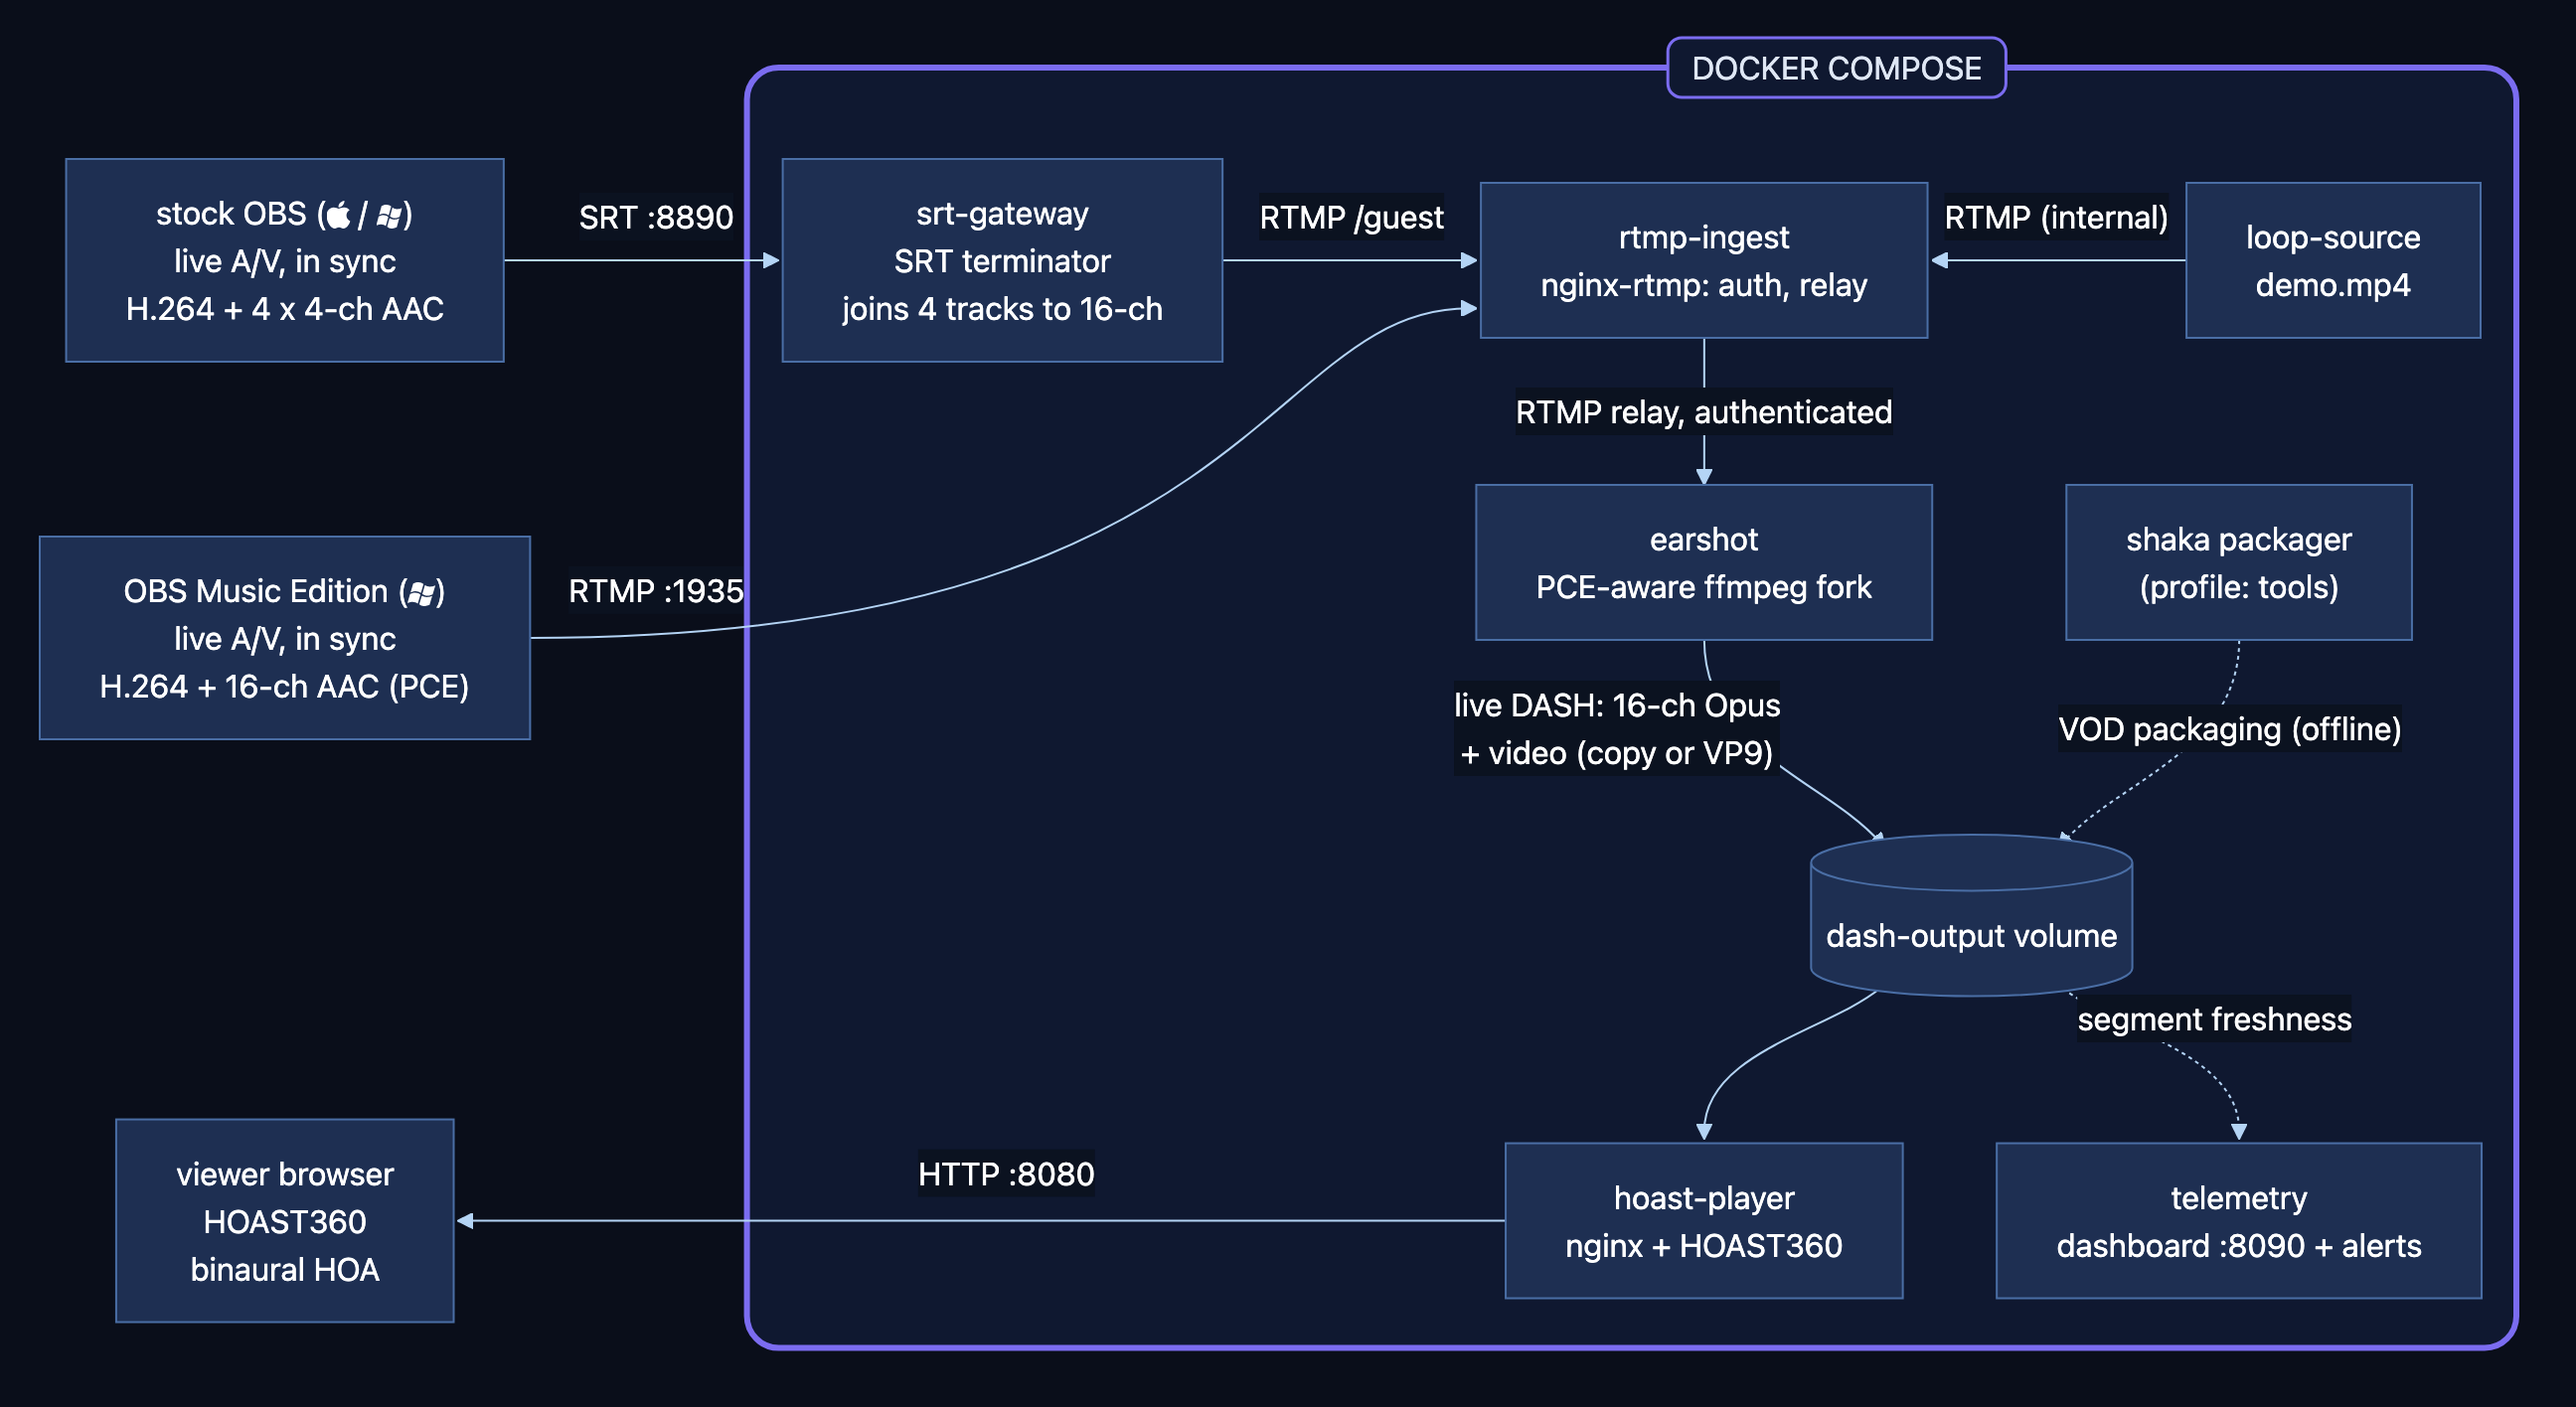
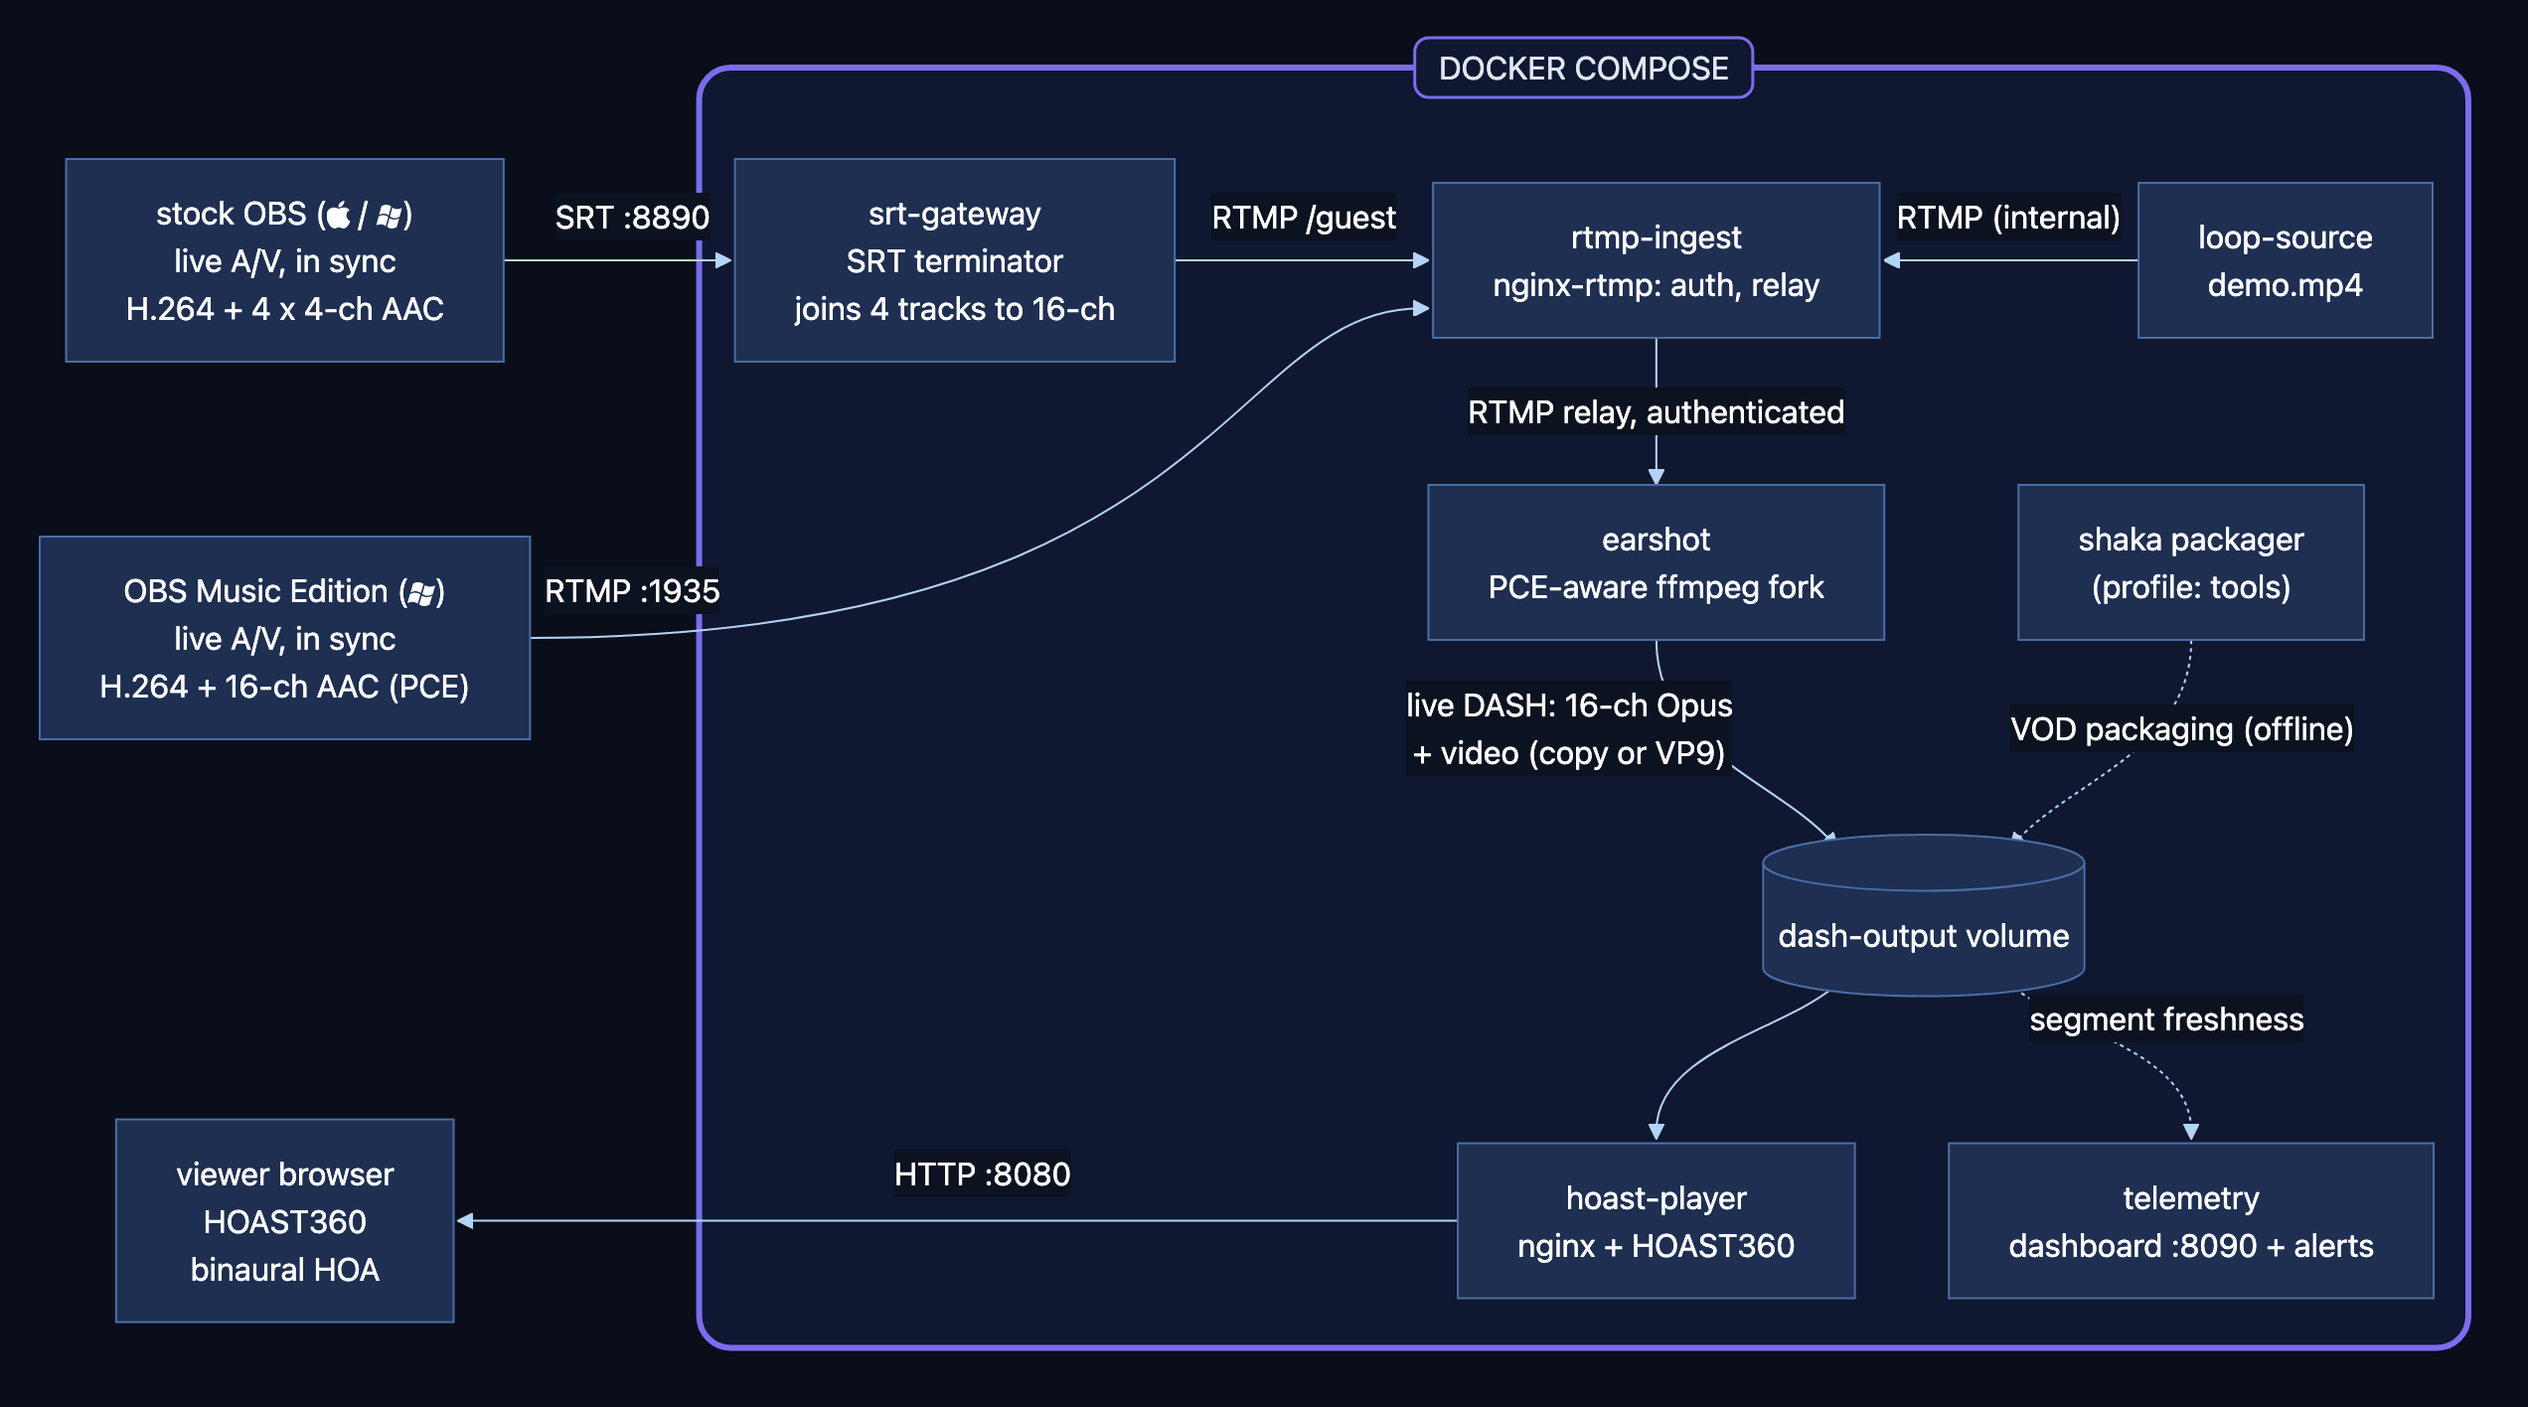
Diagram: tighten the gutter, centre the DOCKER COMPOSE title on the drawn box
dagre centres the subgraph title on the box it laid out, but postprocess.py
pushes the left wall outward afterwards to seat srt-gateway beside ingest,
which left the title visibly off-centre.

diff --git a/docs/architecture/postprocess.py b/docs/architecture/postprocess.py
@@ -118,7 +118,7 @@ vhw = node_halfwidth('VIEWER')
 # not left-aligned). anchor_left is that shared left reference == OBS's left edge.
 # gutter. Wide enough that the port labels ('RTMP :1935' is the widest) sit
 # between the external senders and the box wall without touching either.
-GAP = float(sys.argv[3]) if len(sys.argv) > 3 else 186.0   # gutter (overridable)
+GAP = float(sys.argv[3]) if len(sys.argv) > 3 else 162.0   # gutter (overridable)
 ohw = node_halfwidth('OBS')
 anchor_left = box_left - GAP - 2 * vhw
 VX = anchor_left + ohw           # viewer centre == OBS centre
@@ -240,6 +240,9 @@ s = re.sub(r'(<g class="edgeLabel"[^>]*transform="translate\()[-\d.]+,\s*[-\d.]+
 NEW_TOP = min(iy - ihh, GY - ghh) - 46.0  # room for the title on the edge
 tm = re.search(r'<g class="cluster-label ?" transform="translate\(([-\d.]+),\s*[-\d.]+\)"><foreignObject width="([-\d.]+)"', s)
 tx, tw = float(tm.group(1)), float(tm.group(2))
+# dagre centred the title on the box it laid out; the left wall has since been
+# pushed outward to seat the gateway, so re-centre it on the box as drawn
+tx = (box_left + box_right) / 2.0 - tw / 2.0
 # 1. resize + round the cluster rect
 old_rect = re.search(r'<rect style="stroke-width:3px[^"]*"\s*x="[-\d.]+"\s*y="[-\d.]+"\s*width="[-\d.]+"\s*height="[-\d.]+"\s*/>', s).group(0)
 new_rect = (f'<rect style="stroke-width:3px !important" x="{box_left}" y="{NEW_TOP}" '
